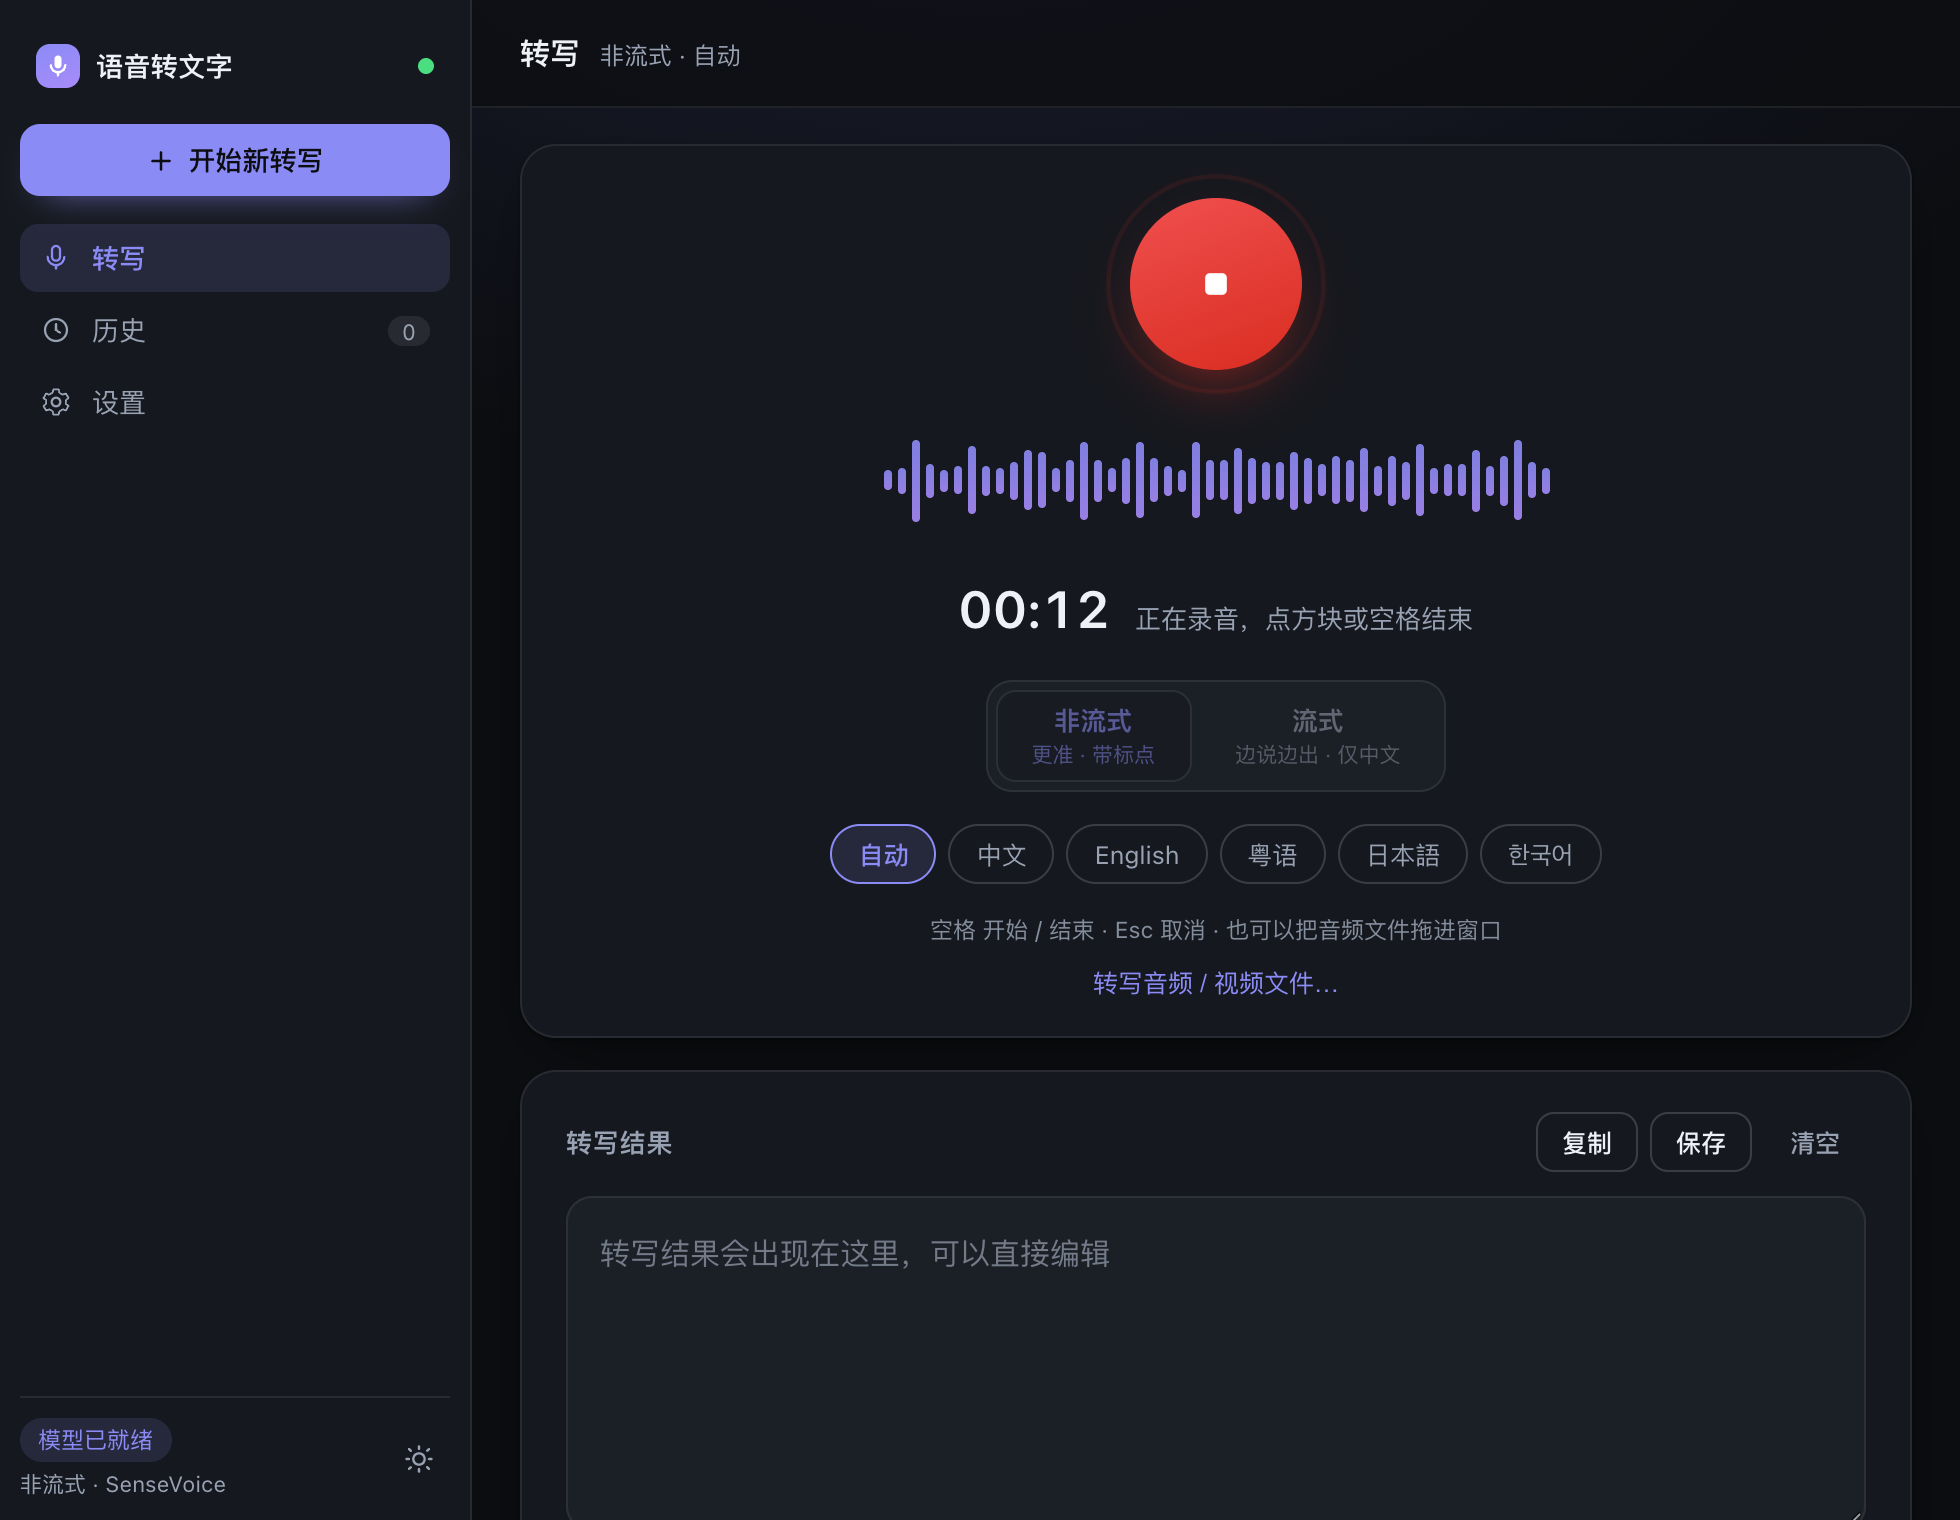
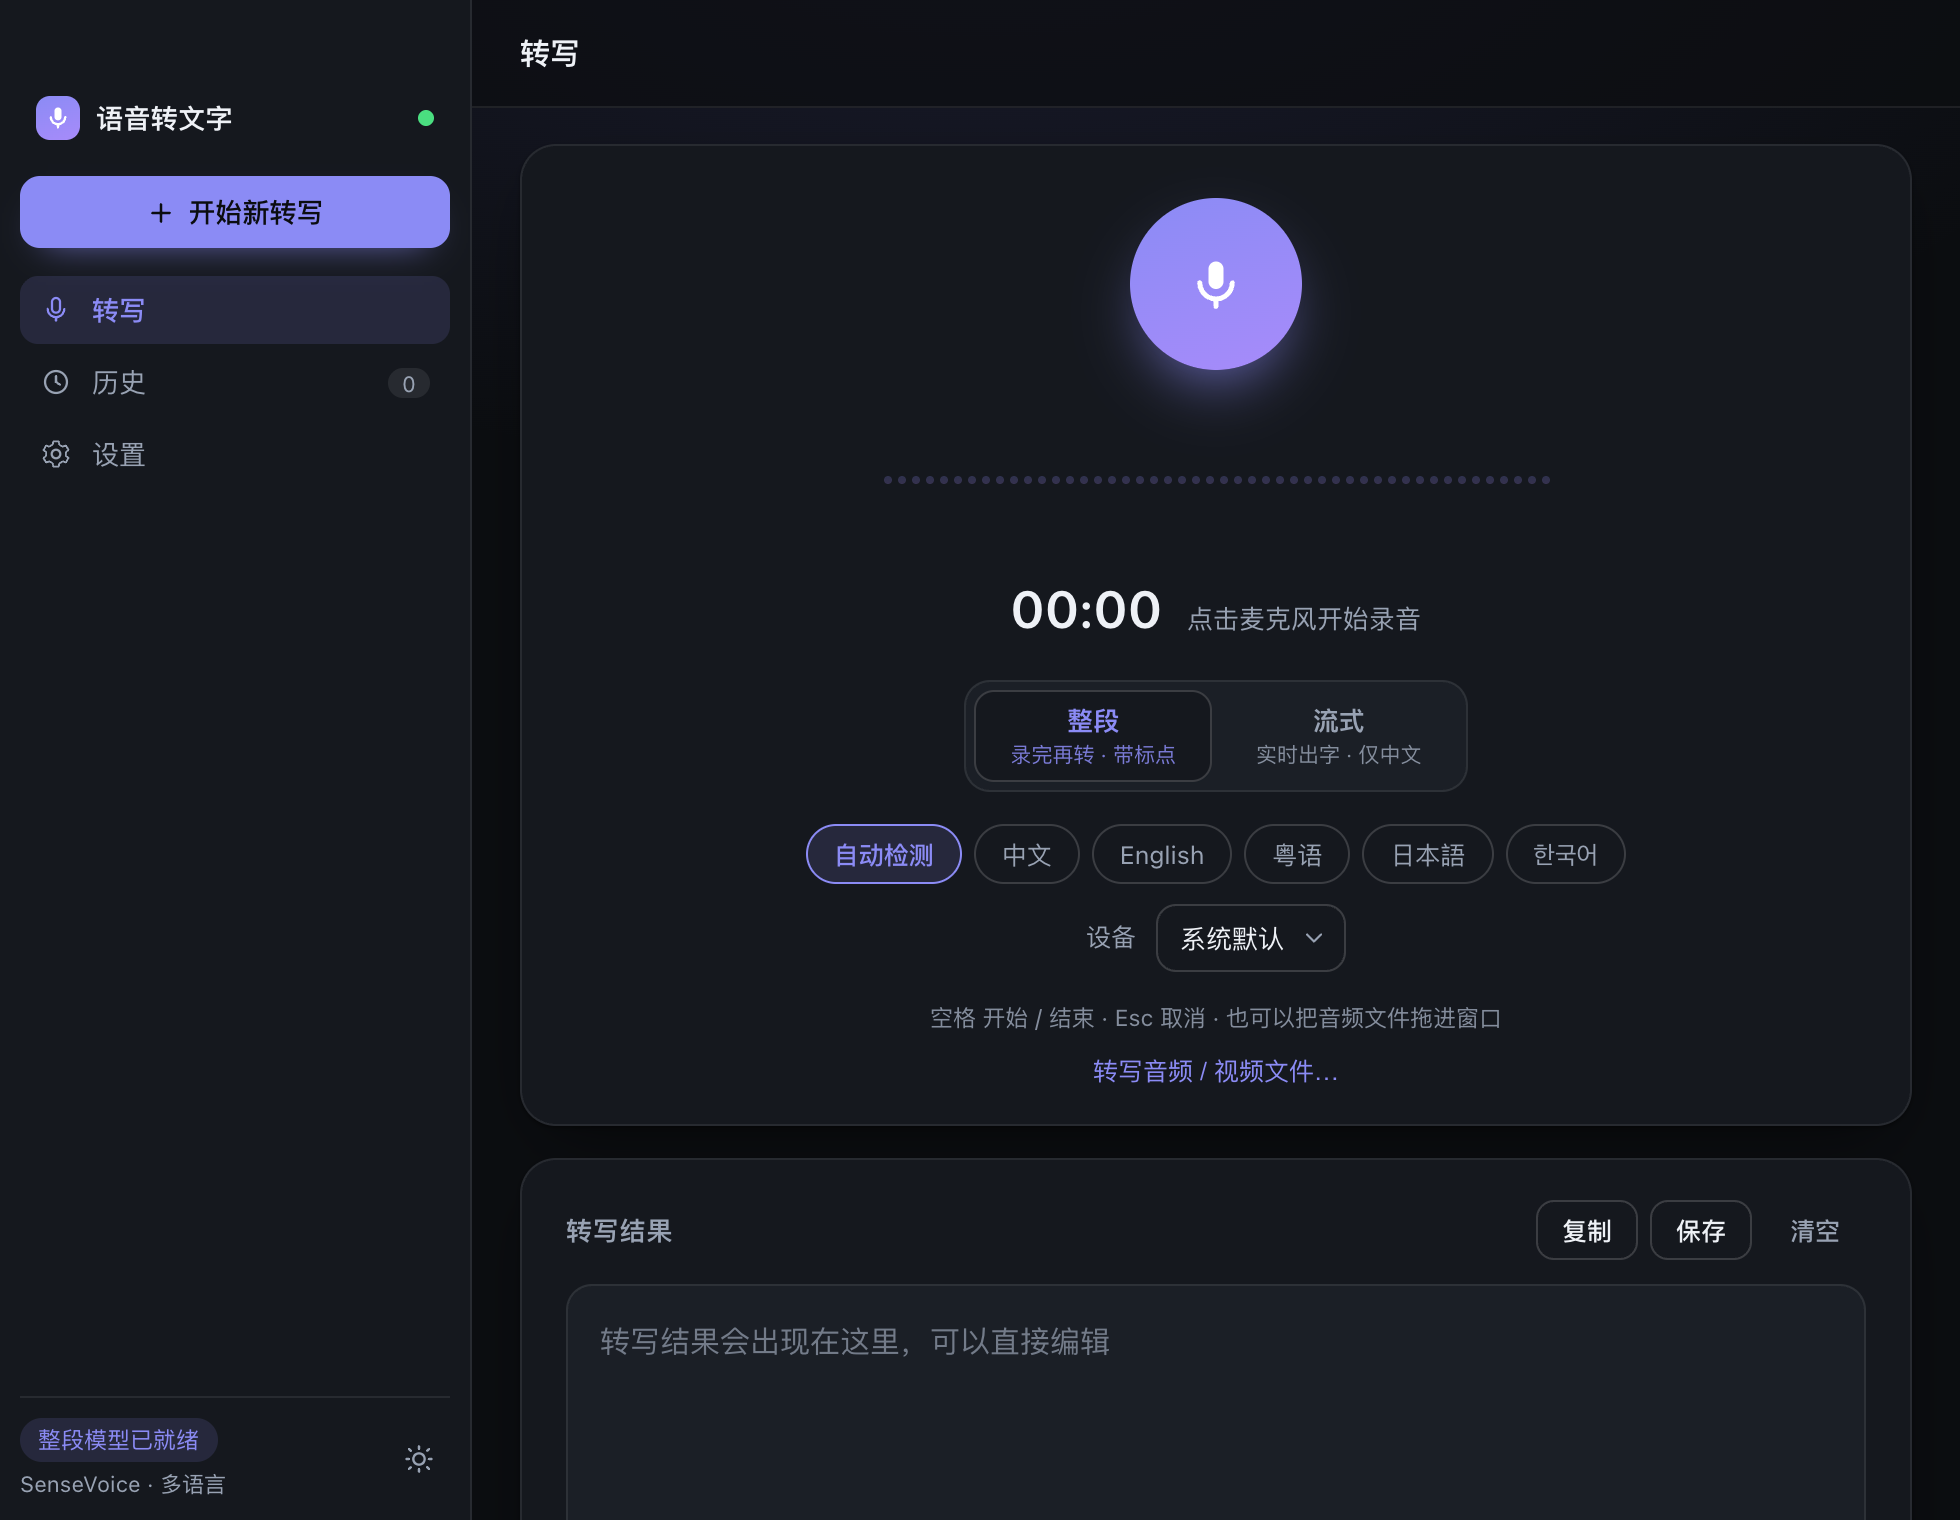
docs: 更新 README 截图与说明
- 重新截图 9 张：主界面/录音/历史/设置/流式/流式下载/首次运行/深色/英文
- 功能列表补上：输入设备选择、界面语言切换、结果异常自动复核、标点可选
- 术语统一成「整段模型 / 流式模型」，下载提示同步
- 准确率一节改成实测结论（流式 99% vs 整段 91%），并写明两个坑：
  流式收尾补静音、SenseVoice 自带标点不能叠加
- 已知限制里补上 mp4/mov 在 Windows 解不了
- 结构一节补 i18n.js / select.js / locales/en.js / hybrid.rs

diff --git a/README.md b/README.md
@@ -4,30 +4,37 @@
 
 参考了 DSH 的语音输入实现（`client-ui-voice-input` + `speech-to-text-sensevoice`）：同样用 Silero VAD 切句 + sherpa-onnx 跑 SenseVoice，同样在前端重采样成 16 kHz 单声道 PCM16。
 
-界面是「左侧导航 + 右侧主区」：转写、历史、设置各一页。
+界面是「左侧导航 + 右侧主区」，转写 / 历史 / 设置各一页；界面语言可切中文或英文。
 
 ![主界面](docs/screenshots/ready.png)
 
-| 录音 | 历史 | 设置 |
+| 录音中 | 历史记录 | 设置 |
 | --- | --- | --- |
 | ![录音](docs/screenshots/recording.png) | ![历史](docs/screenshots/history.png) | ![设置](docs/screenshots/settings.png) |
 
-首次运行（下载模型 / 复用已有模型，截图见 `docs/screenshots/first-run.png`）：
+流式模式（边说边出，中间结果单独一行显示）与切换到流式时的下载提示：
 
-![首次运行](docs/screenshots/first-run.png)
+| 流式 | 流式模型未下载 | 首次运行 |
+| --- | --- | --- |
+| ![流式](docs/screenshots/streaming.png) | ![流式下载](docs/screenshots/stream-setup.png) | ![首次运行](docs/screenshots/first-run.png) |
 
-流式模式（边说边出，中间结果在计时旁边滚动）与首次切换时的下载提示：
+深色主题与英文界面：
 
-| 流式 | 流式模型未下载 |
+| 深色 | English |
 | --- | --- |
-| ![流式](docs/screenshots/streaming.png) | ![流式下载](docs/screenshots/stream-setup.png) |
+| ![深色](docs/screenshots/dark.png) | ![英文](docs/screenshots/english.png) |
 
 ## 功能
 
 - **点一下开始、再点一下结束**，Esc 取消，空格键快捷开关；录音时有实时电平波形与计时。
+- **两种识别方式**：**整段**（SenseVoice 录完一遍识别，支持 6 种语言）和**流式**（Zipformer 边说边出，仅中文）。
 - **VAD 自动分句**：长录音按语音段切开逐段识别，静音段被跳过，结果按中英文习惯拼接。
-- **中 / 英 / 粤 / 日 / 韩 / 自动** 语言选择，ITN（数字、标点）可开关。
-- **文件转写**：把音频/视频拖进窗口，或按 `⌘O` / `Ctrl+O` 选文件；浏览器解码后重采样再送模型（mp3、m4a、wav、webm、mp4… 取决于系统解码器）。
+- **中 / 英 / 粤 / 日 / 韩 / 自动检测** 语言选择，ITN（数字、标点）可开关。
+- **可选输入设备**：多麦、外接声卡、回环设备都能选，不会再录到「不是你想录的那个声音」。
+- **结果异常自动复核**：流式结果明显异常（空结果、重复字、字数和音频时长对不上）时，用整段模型复核一次。
+- **标点可选**：装上标点模型（CT-Transformer）后，流式结果按句自动补标点；不装也能用。
+- **文件转写**：把音频/视频拖进窗口，或按 `⌘O` / `Ctrl+O` 选文件；浏览器解码后重采样再送模型（mp3、m4a、wav、webm… 取决于系统解码器）。
+- **界面语言**：中文 / English，设置里可切；文案集中在字典文件里。
 - **历史记录**（本地 localStorage，最多 100 条），一键复制、保存。
 - **保存目录可指定**，默认 `文档/语音转文字/`，文件为 UTF-8 的 `.txt`。
 - 完全离线：模型在本机运行，音频不出机器。
@@ -36,9 +43,9 @@
 
 SenseVoiceSmall INT8 约 **228 MB**，不会打进安装包：
 
-1. 启动后顶部会出现「首次使用：下载语音模型」。
-2. 点 **下载模型**：优先 Hugging Face，失败自动切换 `hf-mirror.com`；支持断点续传（`.part`），下载完做 SHA-256 校验。
-3. **流式模型**单独下载（约 161 MB，仅在切到「流式」模式时需要）：点模式切换里的「流式」，按提示下载；流式模型只覆盖中文，选粤语/日语/韩语会自动切回非流式。
+1. 启动后顶部会出现「首次使用：下载整段模型」。
+2. 点 **下载整段模型**：优先 Hugging Face，失败自动切换 `hf-mirror.com`；支持断点续传（`.part`），下载完做 SHA-256 校验。
+3. **流式模型**单独下载（约 161 MB，仅在切到「流式」模式时需要）：点模式切换里的「流式」，按提示下载；流式模型只覆盖中文，选粤语/日语/韩语会自动切回整段模式。
 4. **标点模型**（可选，约 281 MB）：设置 → 流式标点 → 下载，下完自动开启，给流式结果按句补标点；不装也不影响识别。
 5. 也可以点 **使用已有模型目录**，指向一个包含以下文件的目录（设置里随时可以点「使用应用内模型」切回来）：
 
@@ -73,11 +80,14 @@ npm run build        # 打包（macOS: .app/.dmg；Windows: .msi/.exe）
 | | 结果 |
 | --- | --- |
 | 流式（Zipformer + 收尾补静音） | **99%** |
-| 非流式（SenseVoice + ITN） | 91%（“明天”听成“今天”） |
+| 整段（SenseVoice + ITN） | 91%（“明天”听成“今天”） |
 
-所以最终文本默认用**流式**的结果；只有在流式明显异常（空结果、重复字、字数跟音频时长对不上）时，才自动用 SenseVoice 复核一次（设置里可关）。流式收尾会补 300ms 静音把最后一个字冲出来，否则句尾会被丢掉。
+所以最终文本默认用**流式**的结果；只有在流式明显异常（空结果、重复字、字数跟音频时长对不上）时，才自动用 SenseVoice 复核一次（设置里可关）。
 
-标点：非流式用的 SenseVoice 开 ITN 时**自己就带标点**；流式模型不带标点，用可选的标点模型（CT-Transformer）补。两者不会叠加。
+两个容易踩的坑，代码里都处理了：
+
+- **流式收尾要补 300ms 静音**，解码器需要尾部上下文才会吐出最后一个字，不补就会丢句尾（“产品评审会”→“产品评审”）。
+- **SenseVoice 开 ITN 时自己就带标点**，标点模型只补**没有标点**的句子，两者叠加会变成「。。」。
 
 ## Windows 打包
 
@@ -95,7 +105,7 @@ Windows 包使用 `downloadBootstrapper` 安装 WebView2；应用内下载的模
 
 ### 平台说明
 
-- **macOS**：麦克风权限写在 `src-tauri/Info.plist`（`NSMicrophoneUsageDescription`），首次录音时系统会弹授权框；未签名的本地构建在「系统设置 → 隐私与安全性 → 麦克风」里需要手动勾选。
+- **macOS**：麦克风权限写在 `src-tauri/Info.plist`（`NSMicrophoneUsageDescription`），**点麦克风时**系统会弹授权框；未签名的本地构建在「系统设置 → 隐私与安全性 → 麦克风」里需要手动勾选。
 - **Windows**：使用 WebView2（安装包会引导下载）；`cpal` 走 WASAPI，无需额外权限。
 - **Linux**：需要 `libasound2-dev`、`libwebkit2gtk-4.1-dev` 等 Tauri 依赖（`cpal` 走 ALSA）。
 
@@ -106,13 +116,17 @@ src/                     前端（原生 JS，无构建）
   index.html             应用外壳（侧边栏 + 三个视图）
   app.js                 视图切换、录音/转写/历史/设置
   style.css              深浅色主题样式
+  i18n.js                文案字典 + t() + data-i18n 填充
+  select.js              自绘下拉框（原生 select 样式不可控）
+  locales/en.js          英文字典（加语言 = 加一个字典文件）
 src-tauri/
   src/lib.rs             Tauri 命令、状态、保存
   src/asr.rs             SenseVoice 推理 + Silero VAD 分句 + 流式 Zipformer（带 VAD 门控）
-  src/audio.rs           cpal 采集、电平、重采样
+  src/audio.rs           cpal 采集、设备选择、电平、重采样
   src/models.rs          模型定位/下载/校验
   src/settings.rs        设置持久化
   src/wav.rs             PCM16 WAV 解析
+  src/hybrid.rs          流式结果与整段复核的合并策略
 scripts/make-icon.py     生成图标源图
 ```
 
@@ -120,24 +134,26 @@ scripts/make-icon.py     生成图标源图
 
 ```bash
 cd src-tauri
-cargo test --lib                  # 逻辑、WAV 解析、麦克风枚举、重采样
+cargo test --lib                  # 逻辑、WAV 解析、设备选择、重采样
 cargo test --test asr_smoke       # 真模型转写 tests/fixtures/zh.wav（缺模型自动跳过）
-cargo test --test streaming_smoke # 流式识别，100ms 切片模拟麦克风
-VOICE_NOTES_PUNCT_MODEL=/path/to/punct/model.onnx cargo test --lib punctuat  # 标点
+cargo test --test streaming_smoke # 流式识别、句尾冲刷、设备挑选
+cargo test --test hybrid          # 复核策略 + 标点（缺模型自动跳过）
 
 # 需要真实网络的用例（默认跳过）
 VOICE_NOTES_DOWNLOAD_TEST=1 cargo test --lib downloads_vad -- --nocapture
 VOICE_NOTES_RECORD_TEST=1 cargo test --lib records_microphone -- --nocapture
 ```
 
-`asr_smoke` 需要 `VOICE_NOTES_MODEL_DIR`，`streaming_smoke` 需要 `VOICE_NOTES_STREAMING_MODEL_DIR`（流式四个文件：`encoder.int8.onnx`/`decoder.int8.onnx`/`joiner.int8.onnx`/`tokens.txt`），未设置时自动跳过。
+`asr_smoke` 需要 `VOICE_NOTES_MODEL_DIR`，`streaming_smoke` 需要 `VOICE_NOTES_STREAMING_MODEL_DIR`（流式四个文件：`encoder.int8.onnx`/`decoder.int8.onnx`/`joiner.int8.onnx`/`tokens.txt`），`hybrid` 额外可选 `VOICE_NOTES_PUNCT_MODEL`，未设置时自动跳过。
+
 实测（Apple Silicon）：5.6 秒中文音频转写耗时约 200 ms，实时率约 0.04×。
 
 ## 已知限制
 
-- 非流式模式是**准实时**：录音结束后统一识别（SenseVoice 是非流式模型）。要边说边出字请切「流式」。
-- 流式模式只支持**中文**，准确率低于 SenseVoice，适合快速记录；定稿建议切回非流式重录或用文件转写。标点是可选模型（见上），且只加在定稿句上，实时中间结果不带标点。
-- 单次录音上限 10 分钟；非流式单句（VAD 切出来的一段）上限 30 秒。
+- 整段模式是**准实时**：录音结束后统一识别（SenseVoice 是非流式模型）。要边说边出字请切「流式」。
+- 流式模式只支持**中文**；标点是可选模型（见上），只加在定稿句上，实时中间结果不带标点。
+- 文件转写依赖系统解码器：mp3 / m4a / wav 没问题，**mp4 / mov 视频容器在 macOS 能解、Windows 解不了**（要在 Windows 也支持，需要把解码搬到后端）。
+- 单次录音上限 10 分钟；整段模式单句（VAD 切出来的一段）上限 30 秒。
 - 首次转写需要把 239 MB 模型读进内存，约 1–2 秒；之后常驻复用。
 - 说话人分离、时间戳导出未做。
 - 打包 `.dmg` 需要能调用 `hdiutil`；在受限沙箱里 `npm run build` 可能只产出 `.app`（`--bundles app` 可跳过 dmg）。
